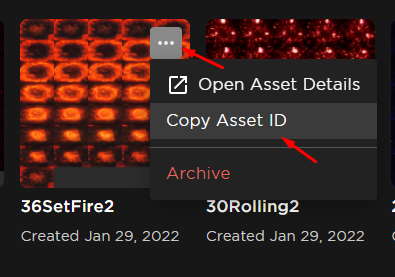
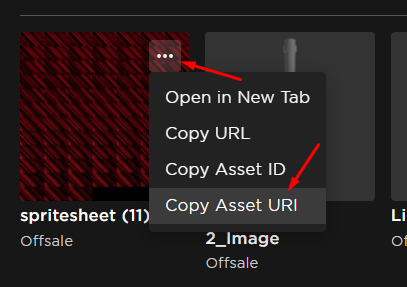
fix copy description

diff --git a/docs/gifs/basic-screen-setup/uploading-gifs.md b/docs/gifs/basic-screen-setup/uploading-gifs.md
@@ -62,7 +62,7 @@ If you used the page above to convert your GIF, then click on the `Roblox module
 
 Replace `INSERT NAME OF BUTTON HERE` with what you want to appear on the button. Make sure to keep the quotes (`""`), otherwise the script will break.
 
-Go back to the website where you uploaded the image. Hover over the image you want to use and press the three dots that appear. Click `Copy Asset ID` and replace `INSERT IMAGE ID HERE AFTER UPLOADING` with what you just copied. Add `rbxassetid://` before the numbers, otherwise Roblox won't be able to find the image.
+Go to https://create.roblox.com/dashboard/creations?activeTab=Image. Hover over the image you just uploaded and press the three dots that appear. Click `Copy Asset URI` and replace `INSERT IMAGE ID HERE AFTER UPLOADING` with what you just copied.
 
 ![](./img/copy_id.png)
 
